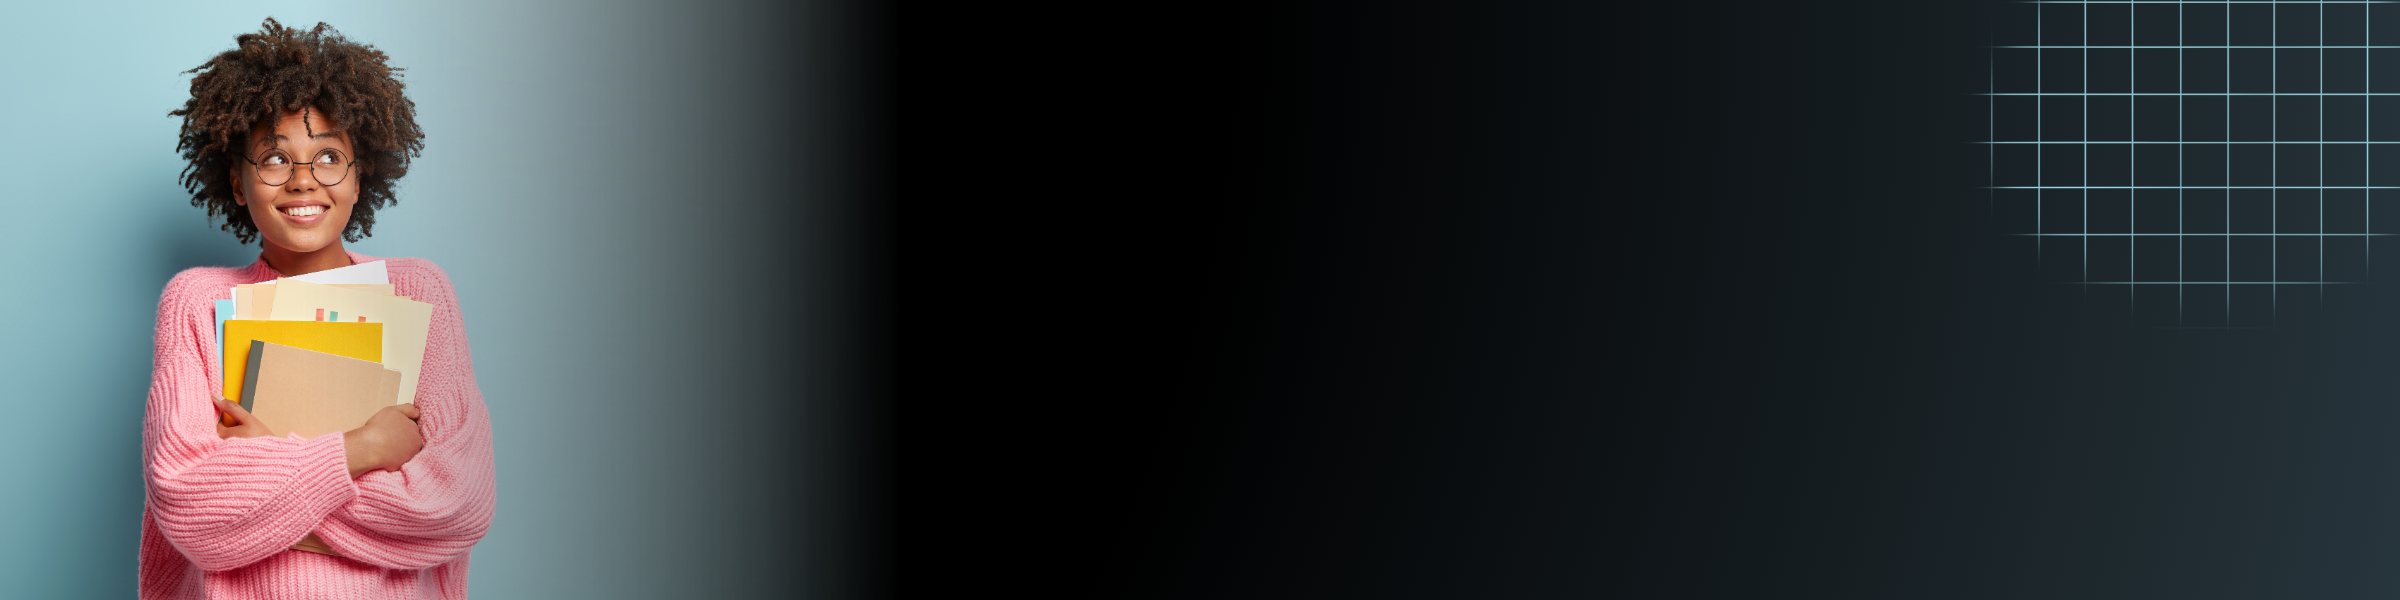
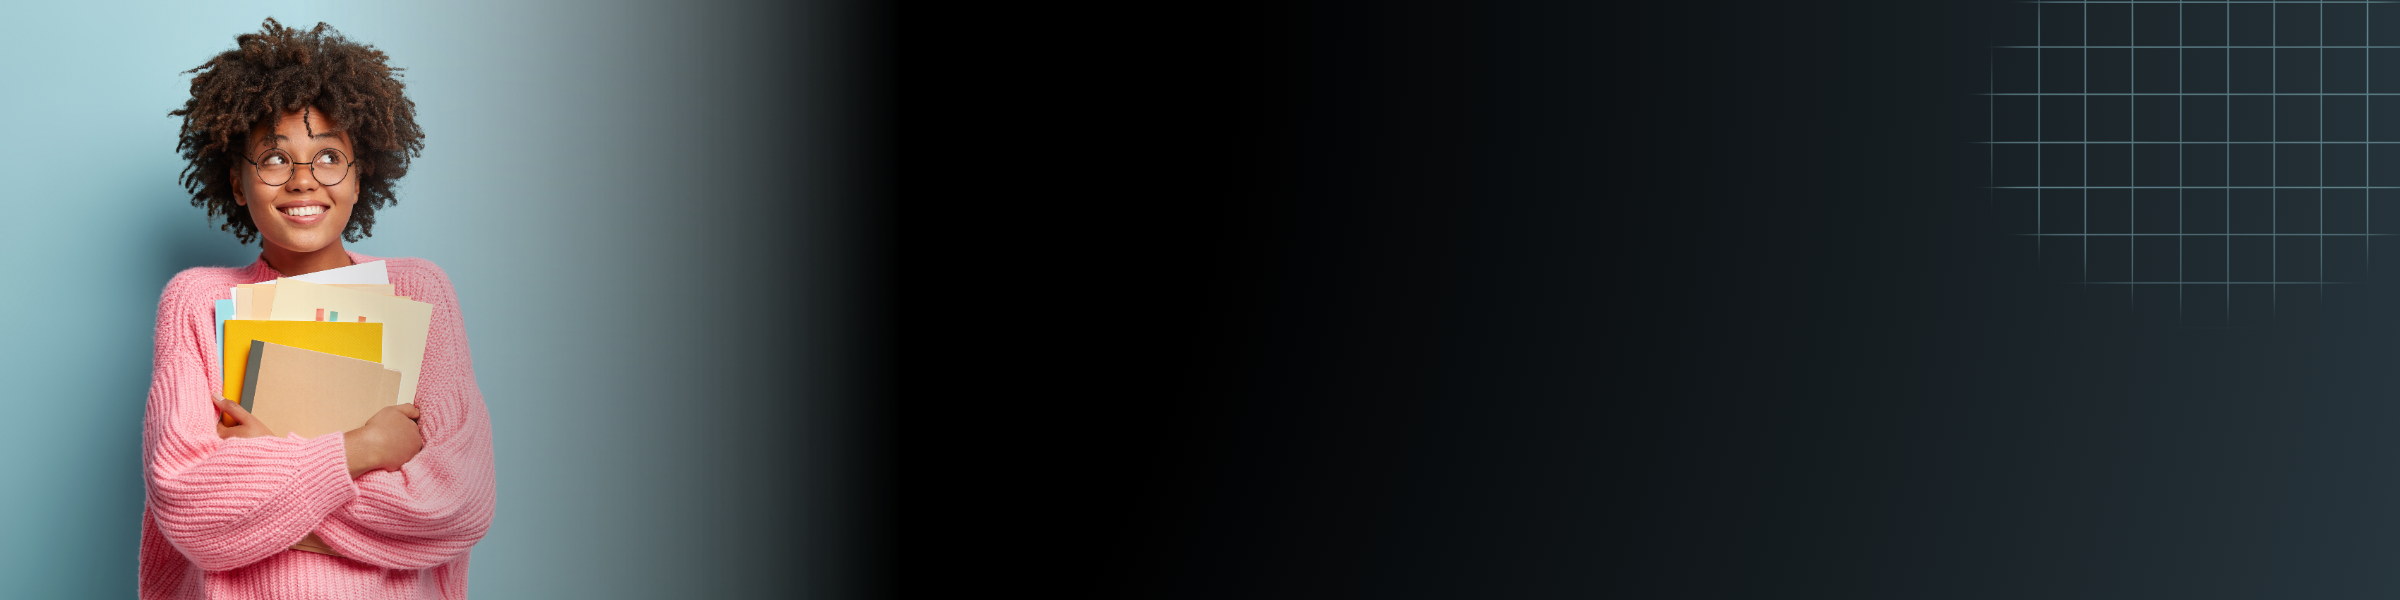
.

diff --git a/inicio.html b/inicio.html
@@ -27,7 +27,7 @@
     </div>
 
     <nav class="menu">
-        <a href="#">SOBRE NÓS</a>
+        <a href="sobrenos.html">SOBRE NÓS</a>
         <a href="#">QUESTÕES</a>
         <a href="#">SIMULADOS</a>
         <a href="#">PROVAS ANTERIORES</a>
@@ -49,10 +49,22 @@
                 <div class="carousel-item">
                     <img src="images/3.png" class="d-block w-100" alt="...">
                 </div>
+                <div class="carousel-item">
+                    <img src="images/4.png" class="d-block w-100" alt="...">
+                </div>
             </div>
         </div>
     </div>
 
+    <div class="enem-inicio">
+        <br>
+        <h5 style="font-weight: 900;text-align: center;">Exame Nacional do Ensino Médio - ENEM</h5>
+        <p>Exame Nacional do Ensino Médio é uma prova de admissão à educação superior realizada pelo Instituto Nacional de Estudos e Pesquisas Educacionais Anísio Teixeira, autarquia vinculada ao Ministério da Educação do Brasil. </p>
+        <br>
+    
+        <h5 style="font-weight: 900;text-align: center;">NOSSO SITE</h5>
+        <p>Preparar-se para o ENEM pode ser um desafio, principalmente quando o acesso a cursos e materiais de qualidade é limitado. Pensando nisso, criamos uma plataforma gratuita que reúne tudo o que você precisa para estudar de forma prática e direcionada. Aqui, você pode encontrar questões organizadas por disciplina e conteúdo, escolher o que deseja estudar, testar seus conhecimentos e conferir a correção após cada resposta. Além disso, terá acesso a videoaulas explicativas produzidas por professores, alunos e bolsistas do IFSC, ajudando você a compreender melhor os conteúdos e aprender com seus erros. Nossa plataforma foi desenvolvida para ampliar o acesso à preparação para o ENEM, especialmente para estudantes que não têm condições de investir em cursos preparatórios. Estude no seu ritmo, escolha o que quer aprender e acompanhe sua evolução.<br><strong>Uma preparação gratuita, acessível e feita para ajudar você a chegar mais longe.</strong><br><br>Saiba mais em:  <a href="sobrenos.html" class="link-sobre">SOBRE NÓS</a></p>
+    </div>
 
     <div class="footer">
         <div>

diff --git a/sobrenos.html b/sobrenos.html
@@ -6,6 +6,7 @@
     <meta name="viewport" content="width=device-width, initial-scale=1.0">
     <title>Sobre Nós</title>
     <link rel="stylesheet" href="style.css">
+    <link href="https://cdn.jsdelivr.net/npm/bootstrap@5.3.8/dist/css/bootstrap.min.css" rel="stylesheet" integrity="sha384-sRIl4kxILFvY47J16cr9ZwB07vP4J8+LH7qKQnuqkuIAvNWLzeN8tE5YBujZqJLB" crossorigin="anonymous">
 </head>
 
 <body>
@@ -20,7 +21,9 @@
 
         <div class="usuario">
             <a href="#">ENTRAR</a>
-            <a href="#" class="btn-conta">CRIAR CONTA</a>
+            <button type="button" class="btn btn-outline-success">CRIAR CONTA</button>
+            <!-- <a href="#" class="btn btn-outline-success">CRIAR CONTA</a> -->
+            <!-- <a href="#" class="btn btn-outline-success">CRIAR CONTA</a> -->
         </div>
 
     </div>
@@ -34,7 +37,7 @@
     </nav>
 
     <div class="pagina-atual">
-        <a href="#"><span class="setinha">▲</span></a>
+        <a href="inicio.html"><span class="setinha">▲</span></a>
         <span>SOBRE NÓS</span>
     </div>
 
@@ -44,6 +47,7 @@
 
     <div class="principal">
         <div>
+            <br>
             <h3 style="font-weight: 900;text-align: center;">Sobre nós</h3>
             <p> Este site faz parte de um projeto desenvolvido para a disciplina de <strong>Projeto Integrador
                     (PI)</strong>, realizado por nós, estudantes do Ensino Médio do <strong>Instituto Federal de Santa
@@ -104,4 +108,5 @@
 
 </body>
 
+    <!-- <script src="https://cdn.jsdelivr.net/npm/bootstrap@5.3.8/dist/js/bootstrap.bundle.min.js" integrity="sha384-FKyoEForCGlyvwx9Hj09JcYn3nv7wiPVlz7YYwJrWVcXK/BmnVDxM+D2scQbITxI" crossorigin="anonymous"></script> -->
 </html>

diff --git a/style.css b/style.css
@@ -1,6 +1,7 @@
 
 body {
     margin: 0
+    
 }
 div {
     text-align: justify;
@@ -17,6 +18,11 @@ div {
 
 .coluna {
     width: 50%;
+}
+
+.enem-inicio {
+    margin-left: 25%;
+    margin-right: 25%;
 }
 
 .principal {
@@ -73,11 +79,11 @@ filter: invert(100%);
    border-bottom: 0px;
 }
 
-.topo h1{
+/* .topo h1{
     font-size:32px;
     color:#2f5d35;
     font-weight:bold;
-}
+} */
 
 /* Entrar + Criar Conta */
 .usuario{
@@ -146,4 +152,14 @@ filter: invert(100%);
     color:#3f5f3f;
     display: inline-block;
     rotate: -90deg
+}
+
+.link-sobre {
+    color: #3f5f3f; /* cor normal */
+    font-weight: bold;
+    transition: color 0.3s ease;
+}
+
+.link-sobre:hover {
+    color: rgb(12, 53, 30); /* cor quando passa o mouse */
 }

diff --git a/testes.html b/testes.html
@@ -1,4 +1,4 @@
-<!DOCTYPE html>
+<!-- <!DOCTYPE html>
 <html lang="pt-br">
     <head>
         <meta charset="UTF-8">
@@ -58,4 +58,20 @@
         </div>
         
     </body>
+</html> -->
+
+
+<!DOCTYPE html>
+<html lang="pt-BR">
+<head>
+  <meta charset="UTF-8">
+  <meta name="viewport" content="width=device-width, initial-scale=1.0">
+  <link href="https://cdn.jsdelivr.net/npm/bootstrap@5.3.7/dist/css/bootstrap.min.css" rel="stylesheet">
+  <title>Teste</title>
+</head>
+<body style="padding:40px;">
+
+  <a href="#" class="btn btn-outline-success">CRIAR CONTA</a>
+
+</body>
 </html>
